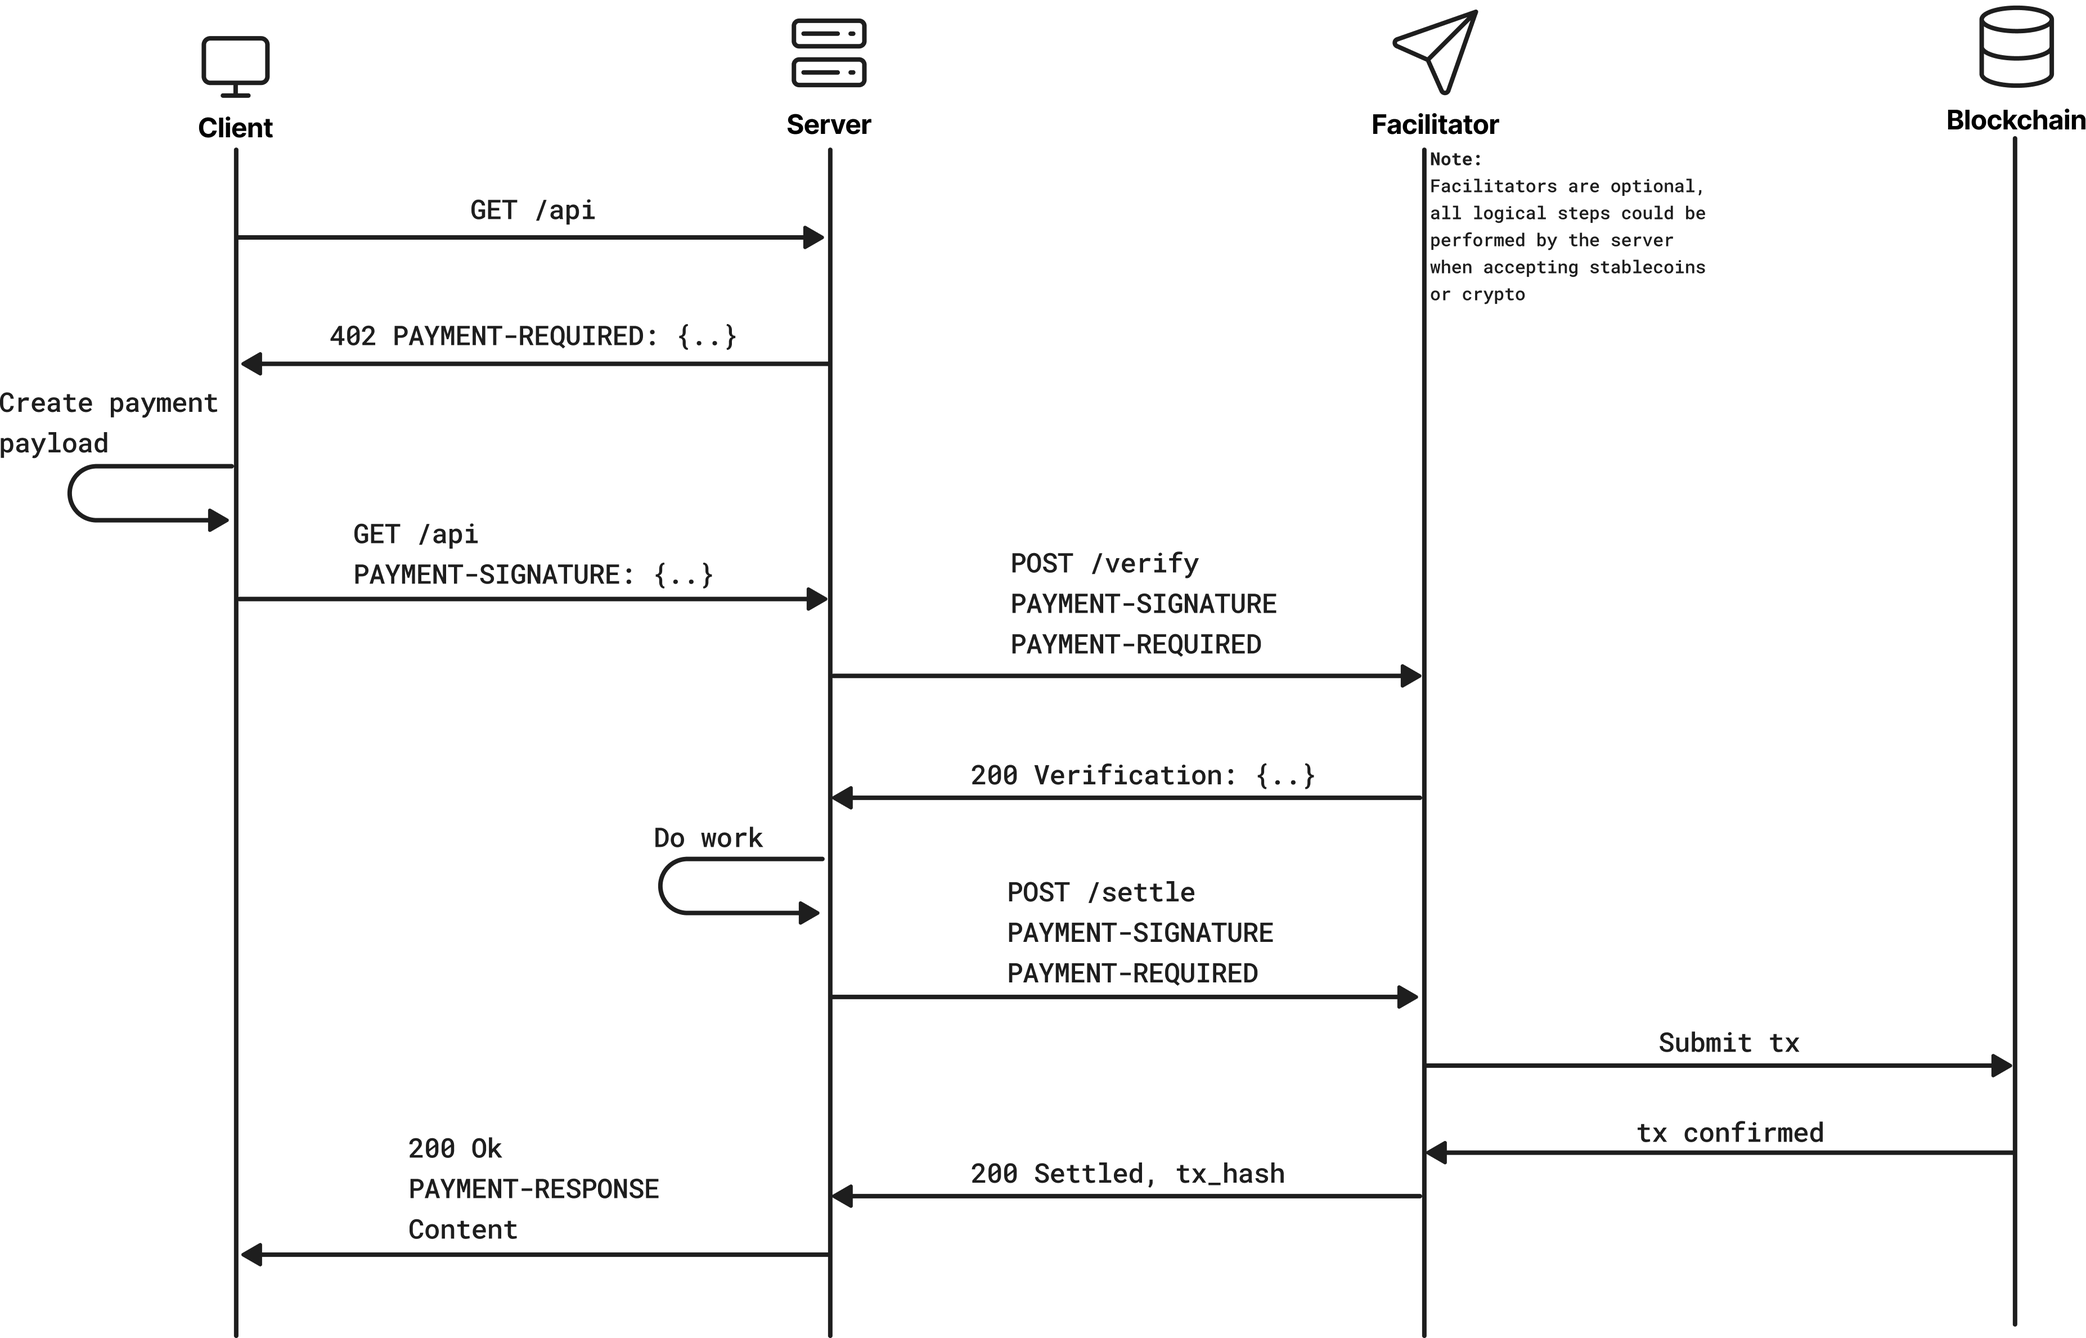
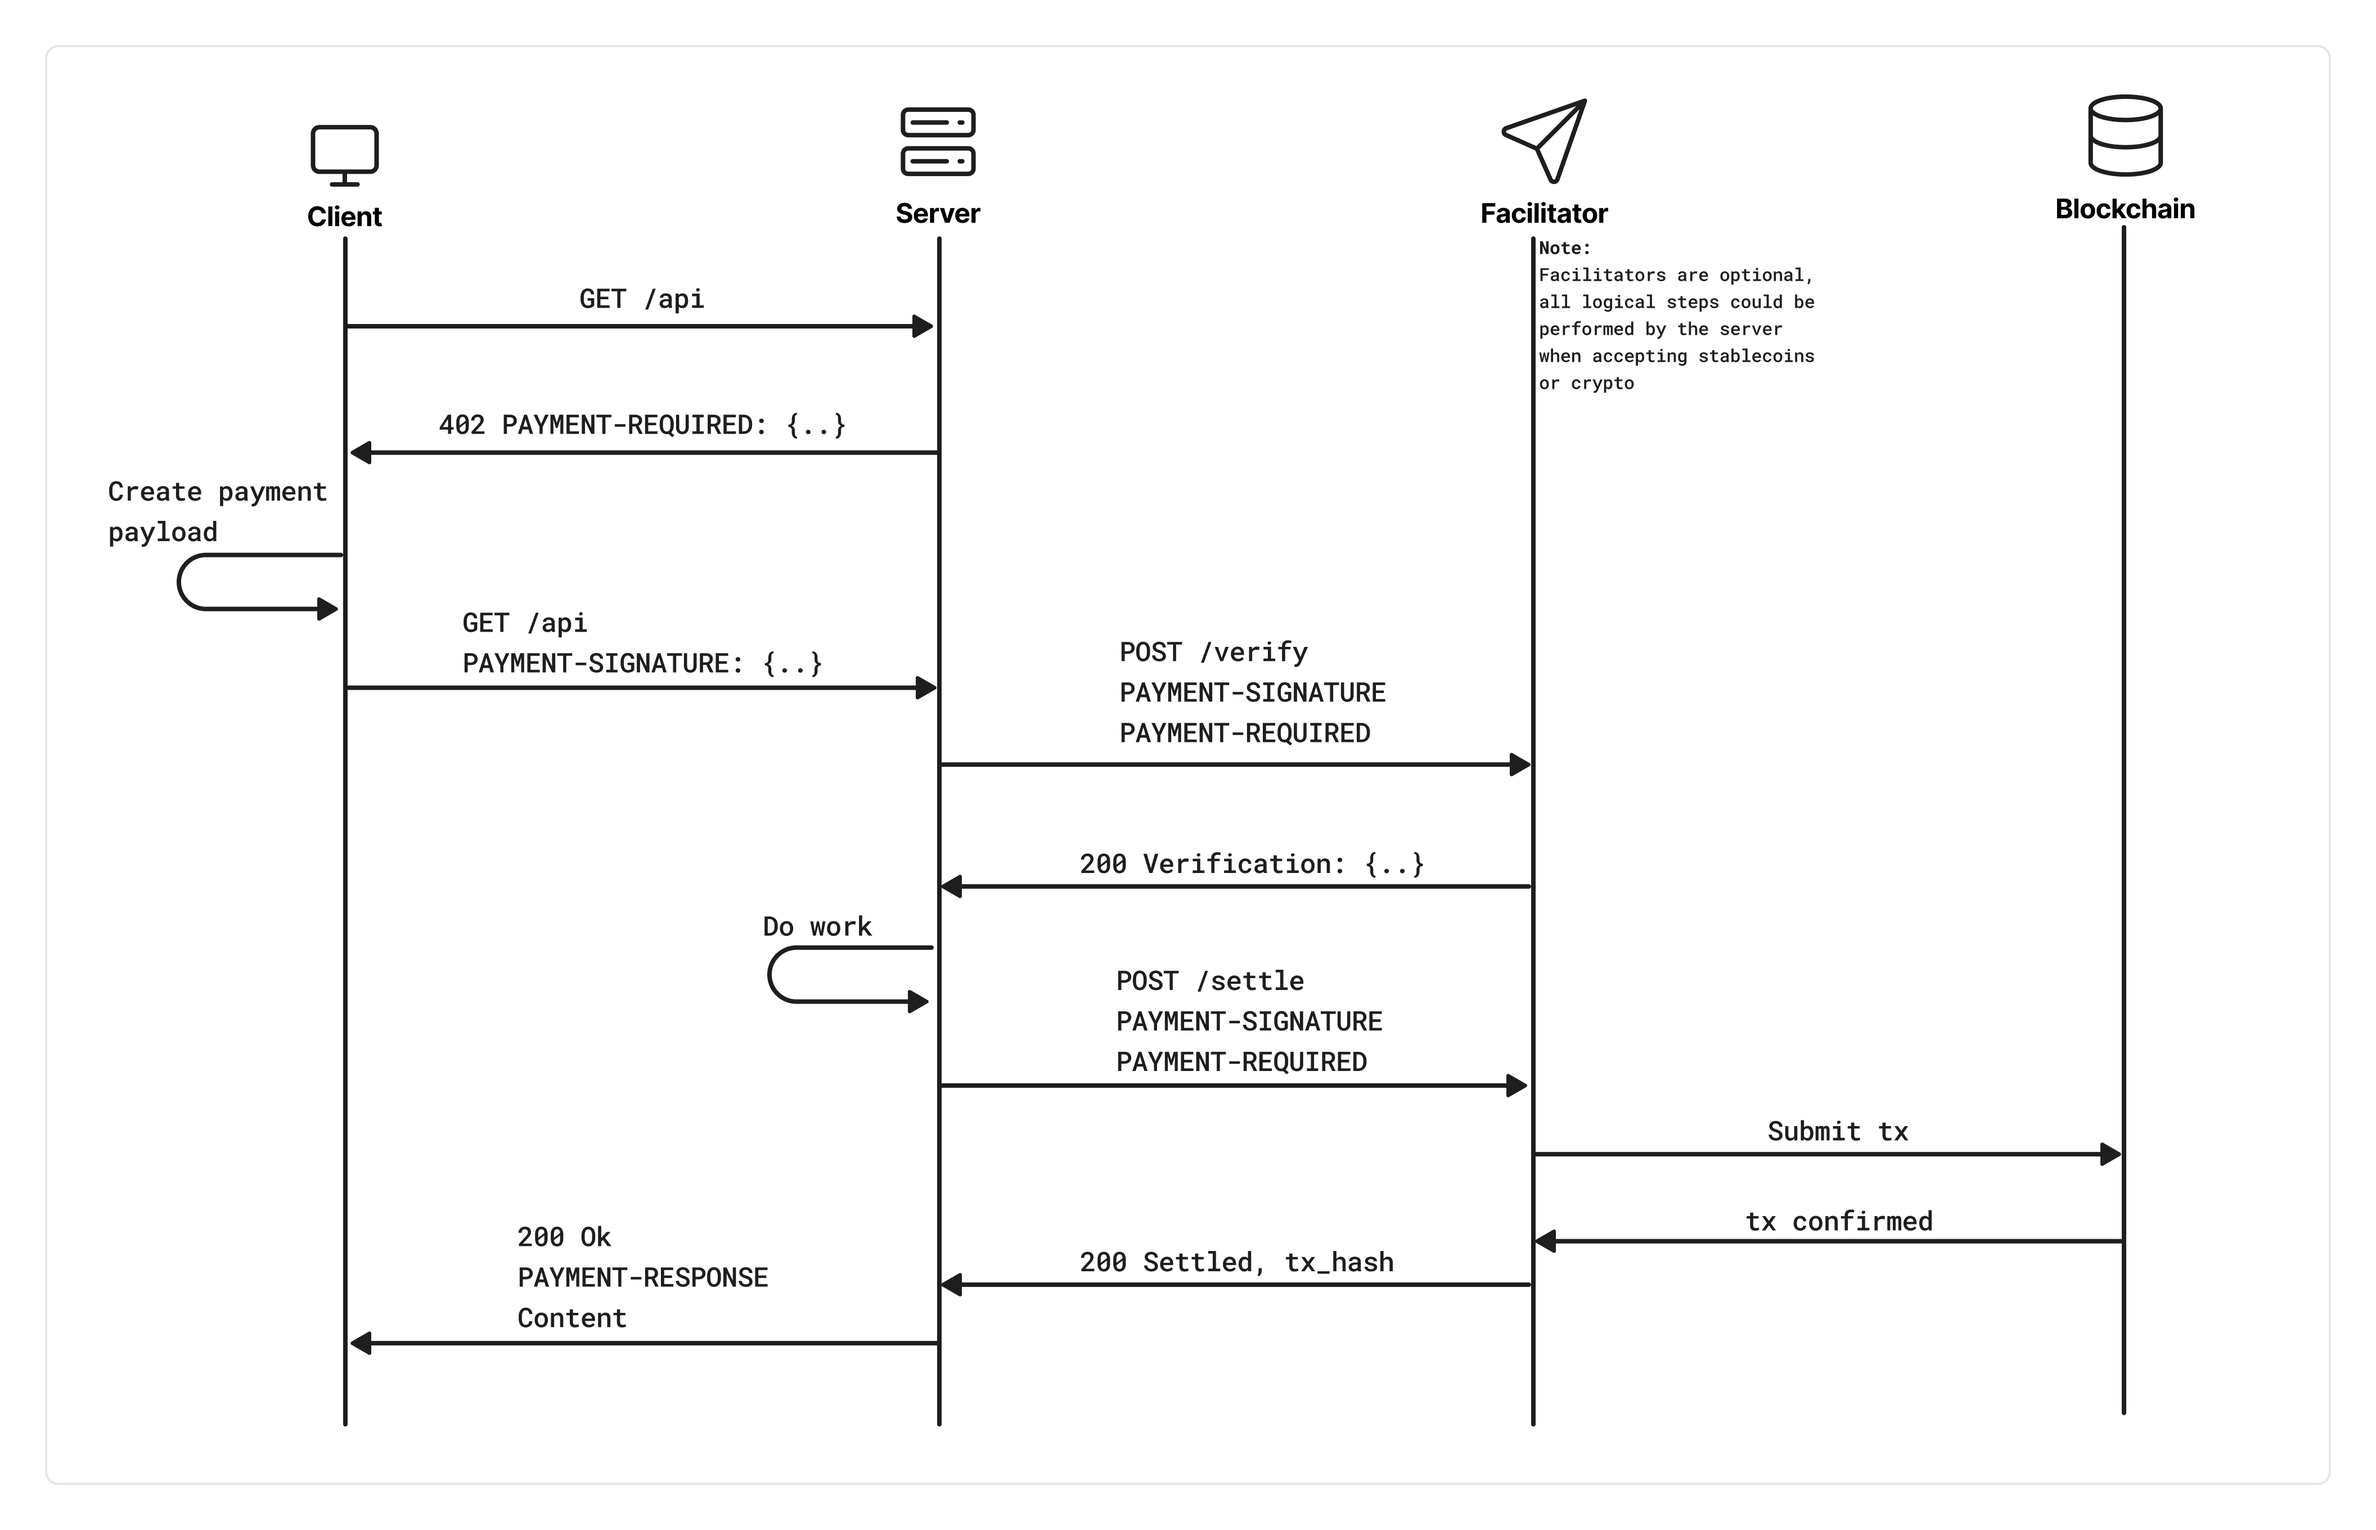
Copy and backgrounded image (#758)

diff --git a/typescript/site/app/components/HeroSection.tsx b/typescript/site/app/components/HeroSection.tsx
@@ -30,8 +30,14 @@ export function HeroSection({ codeSnippet }: HeroSectionProps) {
             <span className="text-base font-medium">Payment Required</span>
           </motion.div>
 
-          <motion.p variants={fadeInUp} className="text-base sm:text-lg font-medium leading-relaxed max-w-[600px]">
-            x402 is the internet&apos;s payment standard. It absolves the original sin of the internet—ads—creating win-win economies that empower agentic payments at scale. x402 exists to build a more free and fair internet.
+          <motion.p
+            variants={fadeInUp}
+            className="text-base sm:text-lg font-medium leading-relaxed max-w-[600px]"
+          >
+            x402 is an open, neutral standard for internet-native payments. It absolves the
+            Internet's original sin by natively making payments possible between clients and
+            servers, creating win-win economies that empower agentic payments at scale. x402 exists
+            to build a more free and fair internet.
           </motion.p>
 
           <motion.div variants={fadeInUp} className="w-full max-w-[1040px] mt-4">
